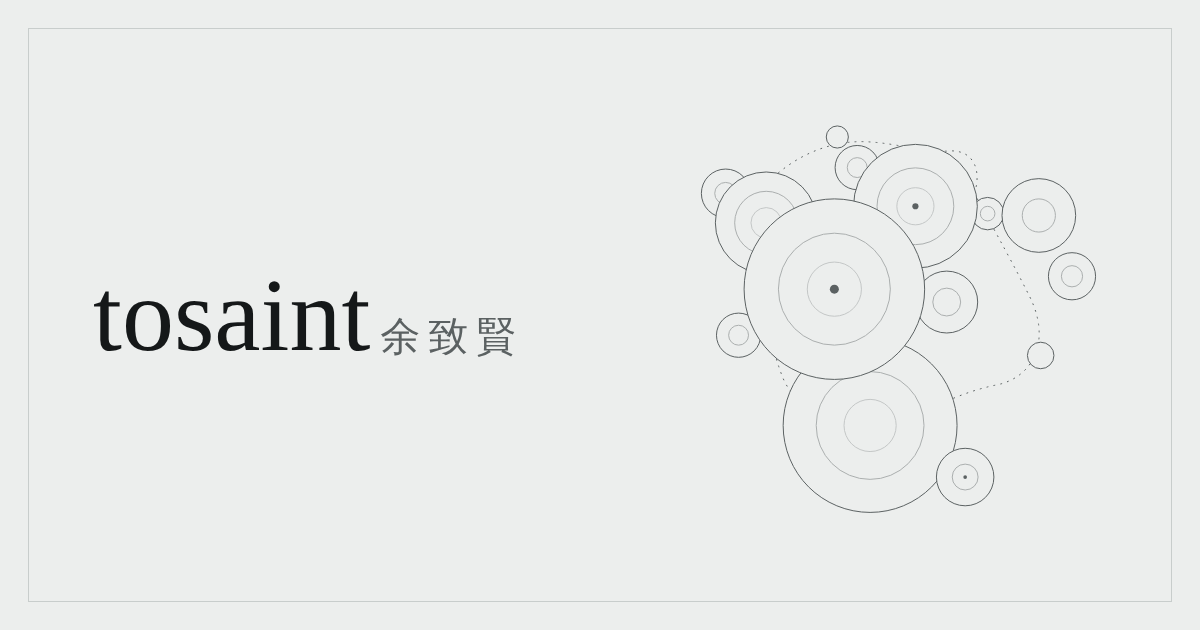
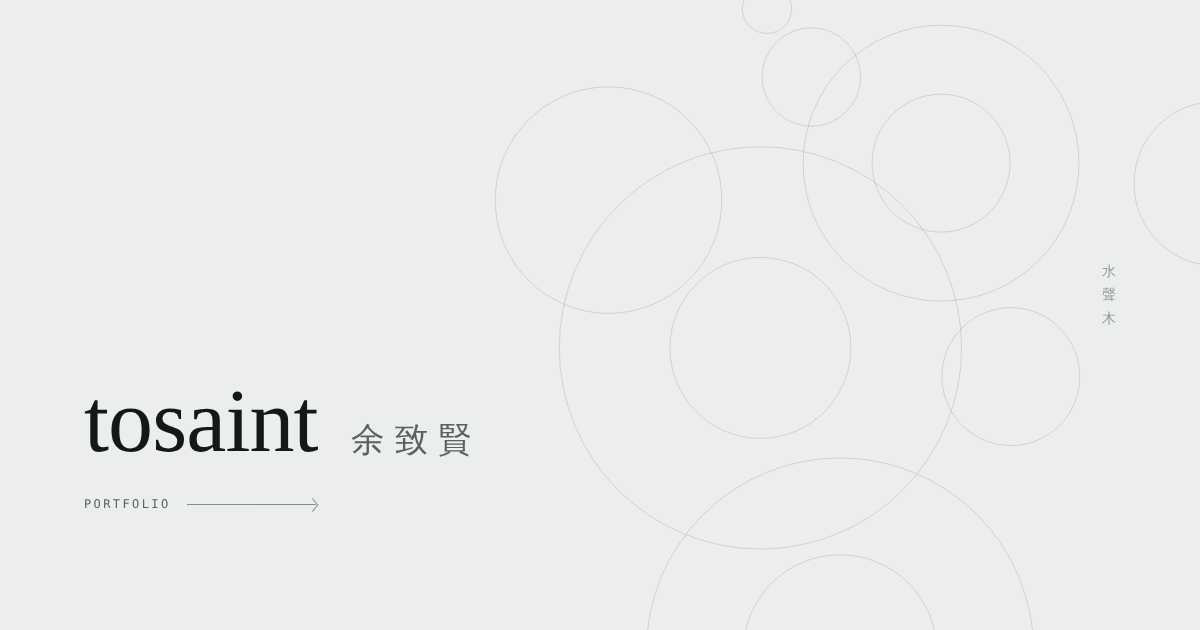
Remove the sheet frame: white space, name, free-floating ripples
Claude-Session: https://claude.ai/code/session_01APYZqy7Q2kTr5qsNGYdeGs

diff --git a/index.html b/index.html
@@ -29,35 +29,37 @@
 :root[data-theme="light"] { --ground: #eceeed; --ink: #151819; --ink-2: #5b6162; --hair: #c8cdcc; --brass: #86692b; --light: #ffffffcc; color-scheme: light; }
 
 * { box-sizing: border-box; }
-html, body { height: 100%; }
-html, body { overflow-x: clip; }
-body { margin: 0; background: var(--ground); color: var(--ink); font: 400 16px/1.65 var(--sans); padding: max(48px, env(safe-area-inset-top)) max(24px, env(safe-area-inset-right)) max(48px, env(safe-area-inset-bottom)) max(24px, env(safe-area-inset-left)); }
+html, body { min-height: 100%; overflow-x: clip; }
+body { margin: 0; background: var(--ground); color: var(--ink); font: 400 16px/1.65 var(--sans); }
 a { color: inherit; }
-a:focus-visible, button:focus-visible { outline: 2px solid var(--brass); outline-offset: 3px; }
+a:focus-visible, button:focus-visible { outline: 1px solid var(--ink-2); outline-offset: 4px; }
 
-/* the drawing sheet: one hairline frame with a title block along the bottom */
-.sheet { position: relative; min-height: 100%; max-width: 1080px; margin: 0 auto; border: 1px solid var(--hair); display: grid; grid-template-rows: auto 1fr auto; }
-.sheet::before, .sheet::after { content: ""; position: absolute; width: 11px; height: 11px; border-color: var(--ink-2); border-style: solid; pointer-events: none; }
-.sheet::before { top: -6px; left: -6px; border-width: 1px 0 0 1px; }
-.sheet::after { bottom: -6px; right: -6px; border-width: 0 1px 1px 0; }
+/* nothing but white space, a name, and the water */
+.page { position: relative; min-height: 100vh; min-height: 100svh; display: grid; grid-template-rows: auto 1fr auto;
+  padding: max(28px, env(safe-area-inset-top)) max(clamp(28px, 7vw, 96px), env(safe-area-inset-right)) max(32px, env(safe-area-inset-bottom)) max(clamp(28px, 7vw, 96px), env(safe-area-inset-left)); }
 
-.bar { display: flex; justify-content: space-between; align-items: center; padding: 14px clamp(18px, 4vw, 40px); border-bottom: 1px solid var(--hair); font: 400 12px var(--mono); letter-spacing: .12em; text-transform: uppercase; color: var(--ink-2); }
-.theme { font: inherit; letter-spacing: inherit; text-transform: inherit; background: none; border: 1px solid var(--hair); color: var(--ink-2); border-radius: 0; padding: 3px 8px; cursor: pointer; }
-.theme:hover { color: var(--ink); border-color: var(--ink-2); }
+.theme { justify-self: end; position: relative; z-index: 2; font: 400 11px var(--mono); letter-spacing: .18em; text-transform: uppercase; background: none; border: 0; padding: 4px 0; color: var(--ink-2); cursor: pointer; opacity: .7; }
+.theme:hover { opacity: 1; }
 
-.field { position: relative; display: grid; grid-template-columns: minmax(0, 1.15fr) minmax(0, .85fr); align-items: center; gap: clamp(24px, 5vw, 72px); padding: clamp(40px, 6vw, 88px) clamp(18px, 4vw, 40px); }
-.text { display: grid; gap: 30px; min-width: 0; }
-h1 { margin: 0; font: 400 clamp(52px, 9vw, 120px)/.95 var(--serif); letter-spacing: -.01em; }
-h1 .zh { display: inline-block; font: 300 clamp(24px, 3.6vw, 44px)/1 var(--zh); letter-spacing: .2em; color: var(--ink-2); margin-left: .25em; }
+main { position: relative; z-index: 1; align-self: end; display: grid; gap: 28px; padding-bottom: clamp(48px, 10vh, 120px); }
+h1 { margin: 0; font: 400 clamp(46px, 7.5vw, 104px)/.95 var(--serif); letter-spacing: -.01em; }
+h1 .zh { display: inline-block; font: 300 clamp(20px, 2.8vw, 36px)/1 var(--zh); letter-spacing: .3em; color: var(--ink-2); margin-left: .35em; }
 
-/* the entrance: a drawn dimension line that runs to the door */
-.enter { display: flex; align-items: center; gap: 16px; max-width: 30em; padding-block: 6px; text-decoration: none; font: 400 13px var(--mono); letter-spacing: .16em; text-transform: uppercase; }
-.enter .line { flex: 1; height: 1px; background: var(--ink); position: relative; transform-origin: left; transition: transform .45s ease; transform: scaleX(.86); }
-.enter .line::after { content: ""; position: absolute; right: -1px; top: -4px; width: 9px; height: 9px; border-top: 1px solid var(--ink); border-right: 1px solid var(--ink); transform: rotate(45deg); }
+.enter { display: flex; align-items: center; gap: 16px; width: min(22em, 100%); padding-block: 6px; text-decoration: none; font: 400 12px var(--mono); letter-spacing: .2em; text-transform: uppercase; color: var(--ink-2); }
+.enter .line { flex: 1; height: 1px; background: currentColor; position: relative; transform-origin: left; transition: transform .6s ease; transform: scaleX(.8); opacity: .7; }
+.enter .line::after { content: ""; position: absolute; right: -1px; top: -4px; width: 9px; height: 9px; border-top: 1px solid currentColor; border-right: 1px solid currentColor; transform: rotate(45deg); }
+.enter:hover { color: var(--ink); }
 .enter:hover .line, .enter:focus-visible .line { transform: scaleX(1); }
 @media (prefers-reduced-motion: reduce) { .enter .line { transition: none; } }
 
-.water { position: absolute; top: -190px; right: -300px; width: 760px; height: auto; color: var(--ink-2); overflow: visible; pointer-events: none; }
+.quiet { position: relative; z-index: 1; display: flex; align-items: center; gap: 28px; font: 400 11px var(--mono); letter-spacing: .18em; text-transform: uppercase; color: var(--ink-2); }
+.quiet a { text-decoration: none; opacity: .75; }
+.quiet a:hover { opacity: 1; color: var(--ink); }
+.ig { display: inline-flex; }
+.ig svg { width: 18px; height: 18px; }
+
+/* the ripples float free in the upper right, and are allowed to leave the screen */
+.water { position: absolute; top: -6vh; right: -14vw; width: min(78vw, 1000px); height: auto; color: var(--ink-2); overflow: visible; pointer-events: none; z-index: 0; }
 .water circle { vector-effect: non-scaling-stroke; transform-box: fill-box; transform-origin: center; opacity: 0;
   animation: drop var(--t) ease-in-out calc(var(--d) + var(--k) * .9s) infinite; }
 @keyframes drop {
@@ -69,45 +71,21 @@ h1 .zh { display: inline-block; font: 300 clamp(24px, 3.6vw, 44px)/1 var(--zh); 
 }
 @media (prefers-reduced-motion: reduce) { .water circle { animation: none; opacity: .22; } }
 
-.block { display: grid; grid-template-columns: auto minmax(0, 1fr) minmax(0, 1fr); border-top: 1px solid var(--hair); }
-.cell { padding: 16px clamp(18px, 4vw, 40px) 18px; display: grid; gap: 6px; align-content: start; min-width: 0; }
-.cell + .cell { border-left: 1px solid var(--hair); }
-.k { margin: 0; font: 400 11px var(--mono); letter-spacing: .14em; text-transform: uppercase; color: var(--brass); }
-.v { margin: 0; font-size: 14.5px; }
-.v a { text-underline-offset: 3px; text-decoration-color: var(--hair); }
-.v a:hover { text-decoration-color: var(--ink); }
-.v.mono { font: 400 12.5px/1.7 var(--mono); color: var(--ink-2); }
-.ig { display: inline-flex; align-items: center; gap: 10px; text-decoration: none; font: 400 13px var(--mono); }
-.ig svg { width: 22px; height: 22px; }
-.cell.icon { align-content: center; }
-.v.mono a { color: var(--ink); }
-.ig:hover svg { color: var(--ink); }
+/* the piece's name, set vertically beside the water */
+.caption { position: absolute; z-index: 1; right: max(clamp(28px, 7vw, 96px), env(safe-area-inset-right)); top: 42vh; display: flex; flex-direction: column; gap: .7em; font: 400 14px/1 var(--zh); color: var(--ink-2); opacity: .6; margin: 0; }
 
-@media (max-width: 820px) {
-  body { padding: max(96px, env(safe-area-inset-top)) max(40px, env(safe-area-inset-right)) max(48px, env(safe-area-inset-bottom)) max(40px, env(safe-area-inset-left)); }
-  .field { grid-template-columns: 1fr; padding-block: 96px 32px; }
-  /* the ripples sit on the sheet's top-right corner and spill out of the frame */
-  .water { position: absolute; top: -240px; right: -235px; width: 460px; max-width: none; margin: 0; }
-  .text { position: relative; }
-  .cell { padding-inline: 14px; }
+@media (max-width: 720px) {
+  .water { top: -4vh; right: -48vw; width: 135vw; }
+  .caption { top: auto; bottom: 34vh; }
 }
 </style>
 </head>
 <body>
-<div class="sheet">
-  <header class="bar">
-    <span>tosaint.github.io</span>
-    <button class="theme" id="theme" type="button" aria-label="Switch colour theme">Light</button>
-  </header>
+<div class="page">
+  <button class="theme" id="theme" type="button" aria-label="Switch colour theme">Light</button>
 
-  <main class="field">
-    <div class="text">
-      <h1>tosaint <span class="zh" lang="zh-Hant">余致賢</span></h1>
-      <a class="enter" href="/portfolio/">Portfolio <span class="line" aria-hidden="true"></span></a>
-    </div>
-
-    <!-- 水聲木 (own work): each turned piece, in plan, drawn only as rings that rise and fade like ripples -->
-    <svg class="water" viewBox="120 150 1140 1080" fill="none" stroke="currentColor" stroke-width=".5" role="img" aria-label="水聲木 in plan: rings that rise and fade where each turned wooden piece lies, like ripples on water">
+  <!-- 水聲木 (own work): each turned piece, in plan, drawn only as rings that rise and fade like ripples -->
+  <svg class="water" viewBox="120 150 1140 1080" fill="none" stroke="currentColor" stroke-width=".5" role="img" aria-label="水聲木 in plan: rings that rise and fade where each turned wooden piece lies, like ripples on water">
       <g class="drop" style="--t:12.1s;--d:-9.0s;--o:0.3"><circle style="--k:0" cx="520" cy="620" r="110.2"/><circle style="--k:1" cx="520" cy="620" r="245"/></g>
       <g class="drop" style="--t:13.7s;--d:-10.1s;--o:0.31"><circle style="--k:0" cx="617" cy="990" r="118.0"/><circle style="--k:1" cx="617" cy="990" r="236"/></g>
       <g class="drop" style="--t:9.1s;--d:-4.2s;--o:0.31"><circle style="--k:0" cx="740" cy="395" r="84.0"/><circle style="--k:1" cx="740" cy="395" r="168"/></g>
@@ -119,22 +97,18 @@ h1 .zh { display: inline-block; font: 300 clamp(24px, 3.6vw, 44px)/1 var(--zh); 
       <g class="drop" style="--t:12.1s;--d:-1.5s;--o:0.2"><circle style="--k:0" cx="1165" cy="585" r="64"/></g>
       <g class="drop" style="--t:13.4s;--d:-2.8s;--o:0.23"><circle style="--k:0" cx="528" cy="207" r="30"/></g>
     </svg>
+  <p class="caption" lang="zh-Hant" aria-label="水聲木"><span>水</span><span>聲</span><span>木</span></p>
+
+  <main>
+    <h1>tosaint <span class="zh" lang="zh-Hant">余致賢</span></h1>
+    <a class="enter" href="/portfolio/">Portfolio <span class="line" aria-hidden="true"></span></a>
   </main>
 
-  <footer class="block">
-    <div class="cell icon">
-      <a class="ig" href="https://www.instagram.com/tosaint" target="_blank" rel="noopener" aria-label="Instagram: @tosaint">
+  <footer class="quiet">
+    <a class="ig" href="https://www.instagram.com/tosaint" target="_blank" rel="noopener" aria-label="Instagram: @tosaint">
         <svg viewBox="0 0 24 24" fill="none" stroke="currentColor" stroke-width="1.3" aria-hidden="true"><rect x="3" y="3" width="18" height="18" rx="5"/><circle cx="12" cy="12" r="4.2"/><circle cx="17.3" cy="6.7" r=".6" fill="currentColor" stroke="none"/></svg>
       </a>
-    </div>
-    <div class="cell">
-      <p class="k">Study</p>
-      <p class="v mono"><a href="/portfolio/projects/seen-through/model/?study=1">Survey →</a></p>
-    </div>
-    <div class="cell">
-      <p class="k">Drawing</p>
-      <p class="v mono">水聲木</p>
-    </div>
+    <a href="/portfolio/projects/seen-through/model/?study=1">Survey →</a>
   </footer>
 </div>
 <script>
